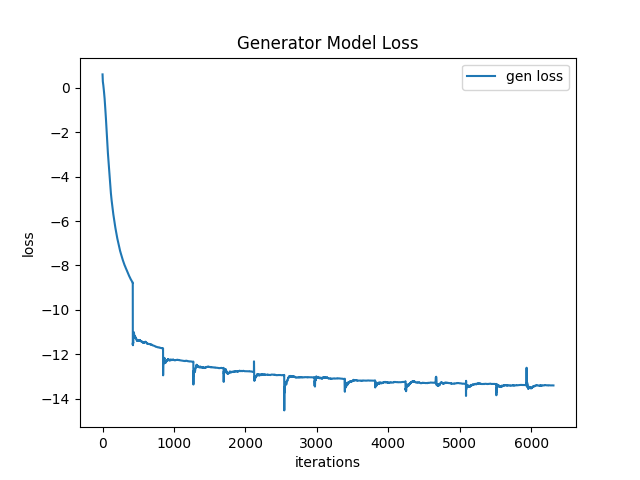
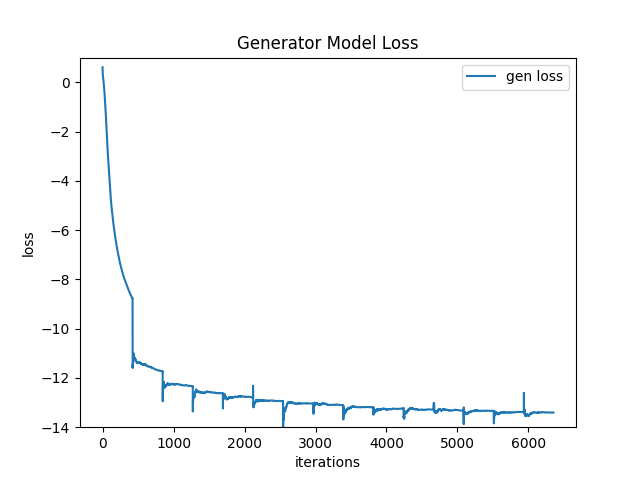
Trying to fix issue of matplotlib not plotting negative losses on generator loss

diff --git a/loss_plot.py b/loss_plot.py
@@ -25,7 +25,7 @@ for loss_filename in loss_filenames:
         gen_loss.append(gen)
       except IndexError:
         pass
-
+  
   #df=pd.DataFrame({'x_disc': range(len(disc_loss)), 'x_gen': range(len(gen_loss)), 'disc_loss': disc_loss, 'gen_loss': gen_loss})
 
   #plt.plot('x_disc', 'disc_loss', data=df, marker='', color='blue', linewidth=2)
@@ -43,6 +43,8 @@ for loss_filename in loss_filenames:
   plt.plot(range(len(gen_loss)), gen_loss)
   plt.xlabel('iterations')
   plt.ylabel('loss')
+  if loss_filename[7] == 's':
+    plt.ylim(-14, 1)
   plt.title('Generator Model Loss')
   plt.legend(['gen loss'])
   plt.savefig(loss_filename[:-4]+'_generator'+'.png')
